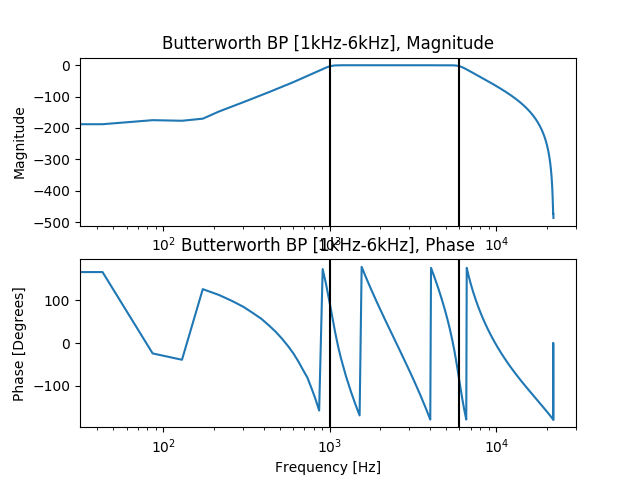
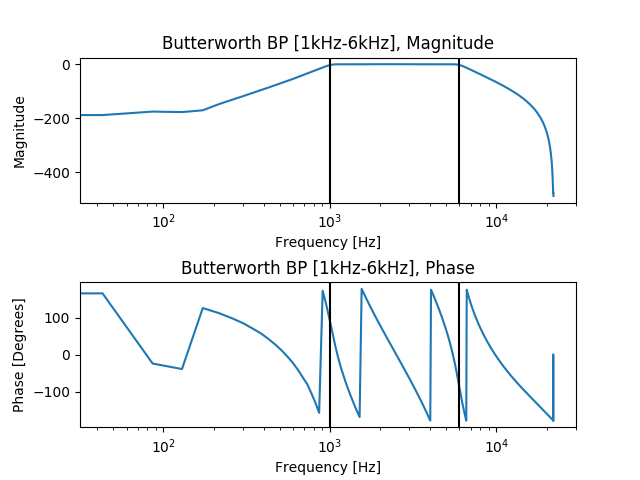
Quiz2: Unversioned files

diff --git a/ACS597_SigAnalysis/ACS597_SigA_Quiz2.py b/ACS597_SigAnalysis/ACS597_SigA_Quiz2.py
@@ -25,9 +25,9 @@ def main(args):
 
     #part1(data_3BB, fs,ov,win,recLength)
     #part2(data_1BB,data_3BB,fs,ov,win,recLength)
-    #part3(data_3BB, fs, show=True)
-    dataFiltered = part3(data_3BB,fs,show=False)
-    part4(dataFiltered,fs)
+    part3(data_3BB, fs, show=True)
+    #dataFiltered = part3(data_3BB,fs,show=False)
+    #part4(dataFiltered,fs)
     return 0
 
 def part1(data,fs,ov,win,recLength):
@@ -36,8 +36,8 @@ def part1(data,fs,ov,win,recLength):
     frst11 = data[0:N11]
     scnd11 = data[N11:N11*2]
 
-    Gxx_1,freq,delF,Gxx_1_array = sigA.spectroArray(frst11,fs,recLength,sync=0,overlap=ov,winType=win)
-    Gxx_2,_,_,_ = sigA.spectroArray(scnd11,fs,recLength,sync=0,overlap=ov,winType=win)
+    Gxx_1,freq,delF,Gxx_1_array, x_ms = sigA.spectroArray(frst11,fs,recLength,sync=0,overlap=ov,winType=win)
+    Gxx_2 = sigA.spectroArray(scnd11,fs,recLength,sync=0,overlap=ov,winType=win)[0]
 
     m = np.shape(Gxx_1_array)[0]
     print m
@@ -45,6 +45,7 @@ def part1(data,fs,ov,win,recLength):
     sigA.rms(frst11*sigA.window(win,len(frst11)))
     rms_Gxx_Avg = sum(Gxx_1)*delF
     print "rms_Gxx_Avg: " + str(rms_Gxx_Avg)
+    print "x_ms: " + str(np.mean(x_ms))
 
     plt.figure()
     plt.semilogy(freq,Gxx_1,label="0-11s")
@@ -130,8 +131,8 @@ def part3(data1,fs,show):
         plt.title("Butterworth BP [1kHz-6kHz], Phase")
         plt.xlabel("Frequency [Hz]")
         plt.ylabel("Phase [Degrees]")
-        plt.savefig("Part3, Butterworth BP.png")
         plt.subplots_adjust(hspace=0.55)
+        plt.savefig("Part3, Butterworth BP.png")
 
         plt.figure()
         plt.plot(times,tot)
@@ -163,7 +164,6 @@ def part3(data1,fs,show):
         plt.show()
 
     return data1Filt
-
 
 def part4(data,fs):
     N = len(data)

diff --git a/ACS597_SigAnalysis/sigA.py b/ACS597_SigAnalysis/sigA.py
@@ -123,19 +123,23 @@ def spectroArray(x_time, fs, sliceLength, sync=0,overlap=0,winType="uniform"):
     m = int((N-int(overlap*sliceLength))/(sliceLength*(1-overlap)))
     Gxx = np.zeros((m,int(sliceLength/2)))
 
+    x_ms = np.zeros(m)
+
+
     for i in range(m):
         n = i * (int(sliceLength*(1-overlap))+sync)
         sliceEnd = int(n + sliceLength - 1)
         #print i
         #print sliceEnd
         Gxx[i,] = ssSpec(x_time[n:sliceEnd], fs,winType)
+        x_ms[i] = rms(x_time[n:sliceEnd]*window(winType,int(sliceLength-1)),show=False)[1]
 
     #### Gxx Avg
     GxxAvg = np.mean(Gxx, axis=0)
     freqAvg = freqVec(sliceLength, fs)[:int(sliceLength/2)]
     _, delF_Avg, _ = param(sliceLength, fs, show=False)
 
-    return GxxAvg, freqAvg, delF_Avg, Gxx
+    return GxxAvg, freqAvg, delF_Avg, Gxx, x_ms
 
 def spectrogram(x_time, fs, sliceLength, sync=0, overlap=0,color="jet", dB=True, winType="uniform", scale=True):
     N = len(x_time)
